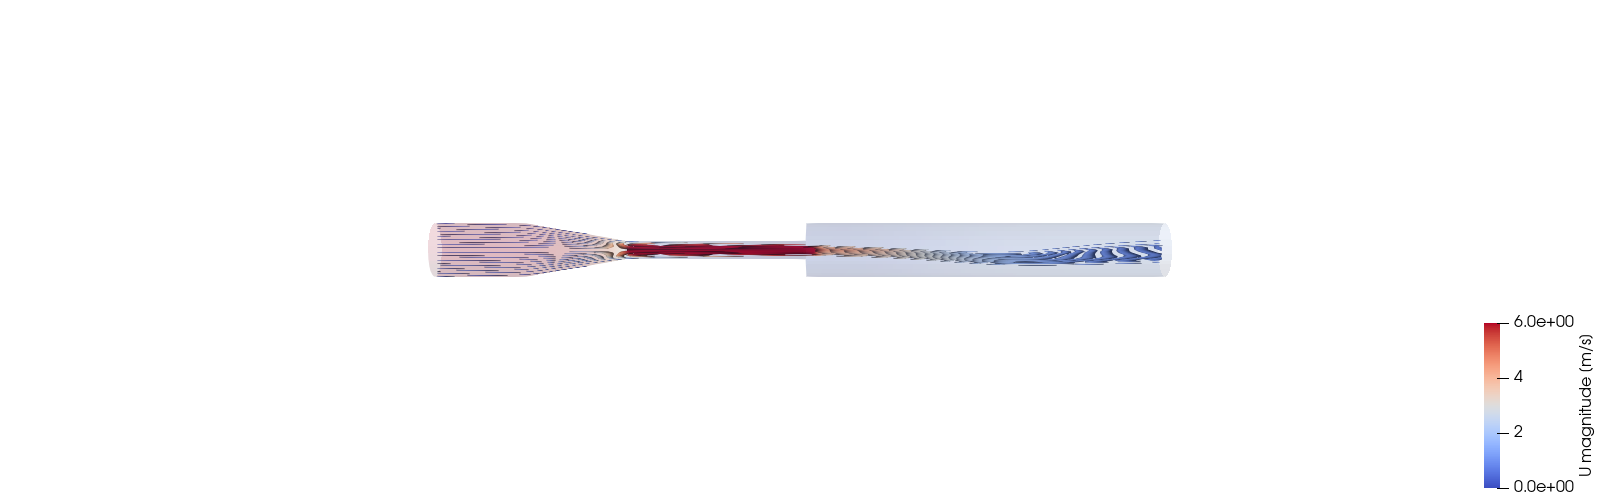
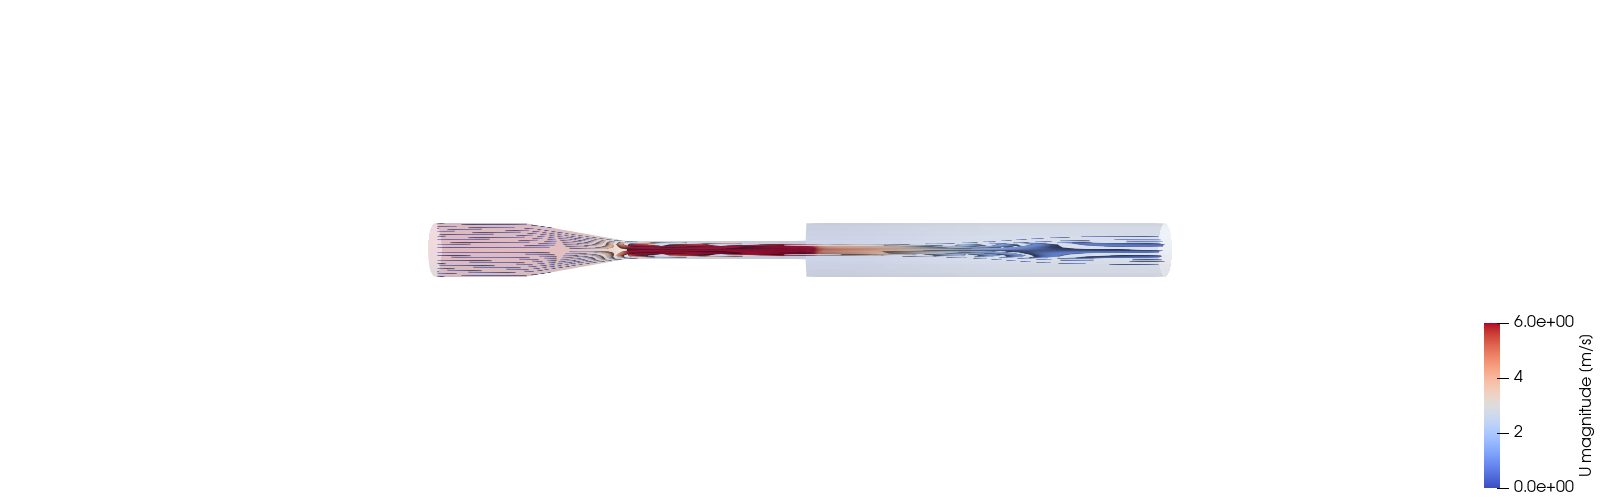
Re-run simpleFoam with layered mesh, check y+

diff --git a/README.md b/README.md
@@ -78,14 +78,18 @@ plots/           Generated plots comparing CFD results against experimental
 
 Mesh, boundary conditions, and a first solver run are in place:
 
-- **Mesh**: coarse `blockMesh` background + `snappyHexMesh` (castellate,
-  snap, and boundary layers on `nozzleWall`) around
-  `constant/triSurface/fda_nozzle_wall.stl`. 19944 cells. `checkMesh`
-  reports `Mesh OK` (max non-orthogonality 45.7°, max skewness 1.04, max
-  aspect ratio 11.7). Boundary layers: 3 target layers on `nozzleWall`,
-  sized off the throat (`system/snappyHexMeshDict`); snappyHexMesh achieved
-  96% face coverage, avg 2.79 layers, 88% of target thickness (the throat's
-  4 mm diameter caps how thick a layer stack fits there).
+- **Mesh**: coarse `blockMesh` background (8100 cells) + `snappyHexMesh`
+  (castellate, snap, and boundary layers on `nozzleWall`) around
+  `constant/triSurface/fda_nozzle_wall.stl`. 43288 cells. `checkMesh`
+  reports `Mesh OK` (max non-orthogonality 43.8°, max skewness 1.04, max
+  aspect ratio 100.6 — high, but expected for the very thin near-wall
+  cells a low-Re layer stack needs; not flagged as an error). Boundary
+  layers: 12 target layers on `nozzleWall`, sized off the throat for a
+  **low-Re target of y+ ~ 1** (`system/snappyHexMeshDict`; see "Why y+ ~ 1
+  instead of y+ ~ 30" below for the reasoning); snappyHexMesh achieved
+  82.3% face coverage, avg 8.51 of 12 layers, 77.7% of target thickness
+  (the throat's 4 mm diameter caps how thick a layer stack fits there via
+  `maxThicknessToMedialRatio`).
 
 ![Nozzle mesh overview](plots/mesh_overview.png)
 ![Boundary-layer mesh at the throat](plots/mesh_throat_boundary_layers.png)
@@ -115,50 +119,94 @@ recovery downstream:
 magnitude, shown over the wall outline:
 ![Streamlines colored by velocity magnitude](plots/streamlines_velocity.png)
 
-**y+ on `nozzleWall`** — see the known limitation below (no boundary layers
-yet, so most of the wall sits below y+ = 30):
+**y+ on `nozzleWall`** — now consistently low (viscous-sublayer / low-Re
+regime) across most of the wall, with a tail near the throat still above
+the wall-function switch point (see below):
 ![y+ on nozzleWall](plots/yplus_nozzle_wall.png)
+
+### Why y+ ~ 1 instead of y+ ~ 30
+
+Two boundary-layer meshes were tried, in order:
+
+1. **No boundary layers** (original mesh, 8100 cells): y+ on `nozzleWall`
+   averaged ~11.5 (min 0.78, max 47.7).
+2. **3 layers targeting y+ ~ 30 at the throat** (19944 cells): re-running
+   `simpleFoam` on this mesh made y+ *worse*, not better — avg 4.51 (min
+   0.16, max 24.5). Root cause: `snappyHexMesh`'s `firstLayerThickness` was
+   one relative value, sized off the throat's shear (the highest on the
+   wall). Away from the throat, in the lower-shear diffuser/expansion
+   region, the same relative layer thickness produces a *smaller* y+
+   (y+ is proportional to local friction velocity, which varies by more
+   than an order of magnitude along the wall). A target window like y+ in
+   [30, 300] is two-sided, so one relative sizing
+   picked to hit it at the throat cannot also hit it everywhere else —
+   it undershoots increasingly as shear drops. The throat's narrow 4 mm
+   diameter compounded this: `maxThicknessToMedialRatio` capped the layer
+   stack there too, so even the throat came in under the y+ = 30 target
+   (max measured 24.5, only 3 layers at 88% of nominal thickness).
+3. **12 layers targeting y+ ~ 1 at the throat** (current mesh, 43288
+   cells): avg y+ dropped to 2.50, **median 0.20** — verified by
+   independently summing the raw `nozzleWall` y+ field (4080 boundary
+   faces) and matching `postProcess`'s reported min/max/average exactly.
+   A low-Re target is one-sided (`y+ <~ 1-5` is "thin enough", with no
+   upper-shear-dependent floor), so it gets *easier* to satisfy away from
+   the throat instead of harder — the same shear variation that broke
+   attempt 2 now works in its favour. A tail remains: ~15% of wall faces
+   (640/4080) still exceed y+ = 5, 90th percentile 11.1, max 31.1 —
+   concentrated at the throat, where the same medial-axis constraint from
+   attempt 2 still limits how thin the layer stack can get.
+
+This is corroborated by the wall function implementation itself, checked
+directly against the OpenFOAM v2312 source
+(`nutkWallFunctionFvPatchScalarField.C`): `nutkWallFunction` computes y+
+per face and switches formula at `yPlusLam` (≈ 11, from the fixed point of
+`log(E·y+)/kappa` with the default `kappa = 0.41`, `E = 9.8`) — using the
+molecular-viscosity (laminar sublayer) value below that threshold and the
+log-law value above it. Attempt 2's y+ values (0.16–24.5, straddling 11 on
+both sides across the wall) meant many faces sat in the region where
+*neither* assumption is a good approximation of the real (buffer-layer)
+velocity profile. Attempt 3's median of 0.20 means the large majority of
+`nozzleWall` now lands solidly on the laminar-sublayer branch, which is
+the physically correct treatment once the mesh actually resolves that
+layer — consistent with residual behaviour also improving markedly
+(`bounding omega` events dropped from ~1000/1000 timesteps to 11/1000).
+The throat tail (~15% of faces, still straddling the 11 switch point) is
+the one part of the wall where this isn't fully resolved yet.
 
 ### Known limitations of this run (not yet resolved)
 
 - **Residuals did not fully converge.** `U` residuals drop quickly early on
-  then plateau around ~0.05 instead of continuing down to the
-  `residualControl` targets in `system/fvSolution`, with intermittent
-  "bounding k" events. This is consistent with a known feature of the FDA
-  nozzle benchmark at this Reynolds number reported in the literature: the
-  shear layer downstream of the sudden expansion sheds vortices and is
-  inherently unsteady, which a steady-state RANS solver cannot fully settle
-  into a single fixed point. It is not necessarily a sign of a mesh or
-  boundary-condition error.
-- **y+ on `nozzleWall` averages ~11.5** (min 0.78, max 47.7) — because no
-  boundary layers have been added yet (`snappyHexMeshDict` has
-  `addLayers false`), much of the wall sits in the buffer region rather
-  than solidly above y+ = 30, where the wall functions (`kqRWallFunction`,
-  `omegaWallFunction`, `nutkWallFunction`) are formally valid.
-- **Practical consequence**: wall shear stress from this run should be
-  treated as **indicative only, not quantitatively validated** — this
-  matters directly for `hemolysis-calculator`, which consumes shear stress
-  as its primary input. Do not feed this run's shear stress into the
-  haemolysis model as a validated result yet.
+  then plateau (not down to the `residualControl` targets in
+  `system/fvSolution`), with frequent "bounding k" events (830/1000
+  timesteps on the current mesh). This is consistent with a known feature
+  of the FDA nozzle benchmark at this Reynolds number reported in the
+  literature: the shear layer downstream of the sudden expansion sheds
+  vortices and is inherently unsteady, which a steady-state RANS solver
+  cannot fully settle into a single fixed point. It is not necessarily a
+  sign of a mesh or boundary-condition error.
+- **y+ still has a throat-region tail above the wall-function switch
+  point** (see above) — ~15% of `nozzleWall` faces exceed y+ = 5, up to
+  31.1 at the throat, where the medial-axis constraint on the 4 mm throat
+  limits how thin the layer stack can get.
+- **Practical consequence**: wall shear stress from this run is much
+  better supported than the earlier attempts, but the throat — the
+  highest-shear region and the one most relevant to `hemolysis-calculator`
+  — is exactly where the residual y+ tail sits. Treat shear stress
+  elsewhere on the wall as trustworthy; treat the throat value with some
+  caution until that tail is tightened further or the transient run (next
+  steps) corroborates it.
 
 ### Next steps
 
-1. **Boundary layers** (mesh done, solver re-run pending): `addLayers true`
-   is now enabled in `system/snappyHexMeshDict` (see the Mesh bullet and
-   images above). What remains is re-running `simpleFoam` on this layered
-   mesh and checking whether `nozzleWall` now sits consistently above y+ =
-   30 (or moving to a low-Re wall treatment targeting y+ ~ 1), so wall
-   shear stress can be trusted quantitatively. The results and known
-   limitations below are still from the pre-layer mesh.
-2. **Transient solver**: re-run with `pimpleFoam` to capture the unsteady
+1. **Transient solver**: re-run with `pimpleFoam` to capture the unsteady
    shear-layer / vortex-shedding behaviour downstream of the sudden
    expansion directly, instead of relying on a steady RANS plateau.
-3. **`hemolysis-calculator` hand-off**: once (1) and (2) give a
-   quantitatively trustworthy shear stress field, add an export step that
-   writes velocity + shear stress history along streamlines in the format
-   `hemolysis-calculator` expects, and wire it into that project's
+2. **`hemolysis-calculator` hand-off**: once the transient run corroborates
+   the shear stress field (including at the throat), add an export step
+   that writes velocity + shear stress history along streamlines in the
+   format `hemolysis-calculator` expects, and wire it into that project's
    haemolysis model as validated input.
-4. **Post-processing script**: add the script (populating `postprocessing/`
+3. **Post-processing script**: add the script (populating `postprocessing/`
    and `plots/`) that extracts velocity profiles at the benchmark's PIV
    measurement planes and plots them against the published experimental
    data, closing the loop described in "Purpose" above.
